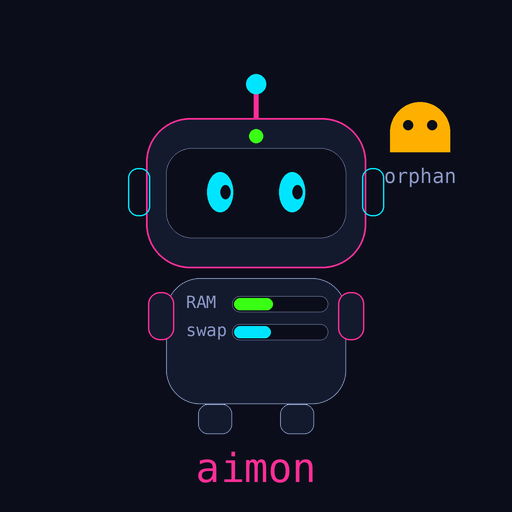
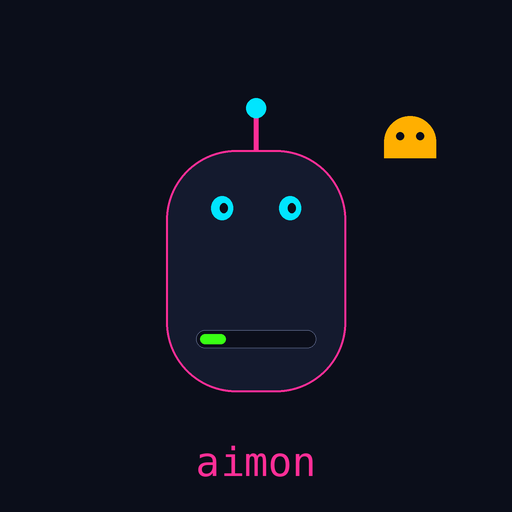
feat: simplify mascot — one capsule, dot eyes, one gauge
Claude-Code-style minimalism: drop ears/arms/legs/labels, keep the story
(gauge climbs, guard zaps the orphan, pressure drops). 451KB GIF.

Changed region(s): [[0.25, 0.125, 0.9062, 0.75], [0.375, 0.8438, 0.625, 0.9688], [0.375, 0.75, 0.625, 0.8438]]

diff --git a/assets/gen_mascot.py b/assets/gen_mascot.py
@@ -1,7 +1,8 @@
 #!/usr/bin/env python3
-"""aimon mascot: a neon guard robot that watches its RAM gauge rise and zaps the orphan
-process ghost before pressure goes critical. Vector primitives only, supersampled 4x,
-exported as an animated GIF (app-directory logo, <=2MB) plus a static PNG.
+"""aimon mascot: a minimal capsule guard whose belly gauge rises with memory pressure until
+it zaps the orphan-process ghost. Claude-Code-style simplicity: one shape, dot eyes, one
+accent detail. Vector primitives only, supersampled 3x, exported as an animated GIF
+(app-directory logo, <=2MB) plus a static PNG.
 
 Run: /tmp/aimon-venv/bin/python assets/gen_mascot.py
 """
@@ -24,11 +25,10 @@ MUTED = (0x8A, 0x98, 0xC4)
 
 SIZE = 512
 S = 3  # supersample
-T_LOOP = 3.0  # seconds
 FPS = 25
-FRAMES = int(T_LOOP * FPS)
+FRAMES = 75  # 3s loop
 
-GHOST = (420, 128)  # center of the orphan ghost
+GHOST = (410, 138)  # center of the orphan ghost
 
 
 def lerp(a: float, b: float, t: float) -> float:
@@ -42,10 +42,10 @@ def ease(t: float) -> float:
 def gauge_frac(t: float) -> float:
     """Pressure rises while the orphan runs, collapses when the zap lands."""
     if t < 0.68:
-        return lerp(0.35, 0.92, ease(t / 0.68))
+        return lerp(0.12, 1.0, ease(t / 0.68))
     if t < 0.85:
-        return lerp(0.92, 0.35, ease((t - 0.68) / 0.17))
-    return 0.35
+        return lerp(1.0, 0.12, ease((t - 0.68) / 0.17))
+    return 0.12
 
 
 def gauge_color(f: float) -> tuple[int, int, int]:
@@ -66,159 +66,108 @@ def ghost_alpha(t: float) -> float:
     return (t - 0.92) / 0.08
 
 
-def rr(d: ImageDraw.ImageDraw, box: tuple[float, float, float, float], r: float, **kw) -> None:
-    d.rounded_rectangle([c * S for c in box], radius=r * S, **kw)
-
-
 def draw_frame(t: float) -> Image.Image:
     img = Image.new("RGBA", (SIZE * S, SIZE * S), GROUND + (255,))
     d = ImageDraw.Draw(img, "RGBA")
-    rr(d, (0, 0, SIZE, SIZE), 96, fill=GROUND)
+
+    def rr(box, r, **kw):
+        d.rounded_rectangle([c * S for c in box], radius=r * S, **kw)
 
     frac = gauge_frac(t)
     zapping = 0.68 <= t < 0.80
 
-    # --- ghost (behind the arm) ---
-    ga = ghost_alpha(t)
     gx, gy = GHOST[0], GHOST[1] + 5 * math.sin(2 * math.pi * t)  # bob
-    if ga > 0:
-        g = int(235 * ga)
-        body = WARN + (g,)
-        r = 30
-        d.pieslice([(gx - r) * S, (gy - r) * S, (gx + r) * S, (gy + r) * S], 180, 360, fill=body)
-        d.rectangle([(gx - r) * S, gy * S, (gx + r) * S, (gy + 20) * S], fill=body)
-        zig = []
-        for i in range(5):
-            zig += [(gx - r + i * r / 2, gy + (20 if i % 2 == 0 else 11))]
-        zig += [(gx + r, gy + 20), (gx - r, gy + 20)]
-        d.polygon([(x * S, y * S) for x, y in zig], fill=body)
-        if zapping:  # X eyes
-            for ex in (gx - 12, gx + 12):
-                for (x1, y1, x2, y2) in (
-                    (ex - 5, gy - 11, ex + 5, gy - 1),
-                    (ex + 5, gy - 11, ex - 5, gy - 1),
-                ):
-                    d.line([x1 * S, y1 * S, x2 * S, y2 * S], fill=BAD + (g,), width=3 * S)
-        else:
-            for ex in (gx - 12, gx + 12):
-                d.ellipse(
-                    [(ex - 5) * S, (gy - 12) * S, (ex + 5) * S, (gy - 2) * S],
-                    fill=GROUND + (g,),
-                )
-        d.text(
-            ((gx) * S, (gy + 44) * S),
-            "orphan",
-            font=font(20),
-            anchor="mm",
-            fill=MUTED + (int(200 * ga),),
-        )
+    ga = ghost_alpha(t)
 
-    # --- antenna ---
-    tip_y = 84
-    d.line([256 * S, 122 * S, 256 * S, tip_y * S], fill=BRAND, width=5 * S)
-    glow = 22 if zapping else 0
-    if glow:
-        d.ellipse(
-            [(256 - glow) * S, (tip_y - glow) * S, (256 + glow) * S, (tip_y + glow) * S],
-            fill=BRAND + (90,),
-        )
-    d.ellipse(
-        [(256 - 10) * S, (tip_y - 10) * S, (256 + 10) * S, (tip_y + 10) * S],
-        fill=ACCENT if not zapping else BRAND,
-    )
-
-    # --- bolt: antenna tip -> ghost, arcing over the head ---
+    # --- bolt: antenna tip -> ghost ---
     if zapping:
         p = (t - 0.68) / 0.12
-        pts = [(256, tip_y)]
-        for i, (mx, my) in enumerate([(304, 96), (352, 88), (392, 98)]):
-            jitter = 9 * math.sin(i * 9 + p * 12)
-            pts.append((mx + jitter, my + jitter * 0.4))
-        pts.append((gx, gy + 14))
+        pts = [(256, 108), (310, 122), (362, 114), (gx, gy + 12)]
         d.line(
             [(x * S, y * S) for x, y in pts],
             fill=BRAND + (int(255 * min(1, 1.3 - p)),),
             width=7 * S,
             joint="curve",
         )
-        d.line(
-            [(x * S, y * S) for x, y in pts],
-            fill=(255, 255, 255, int(200 * min(1, 1.3 - p))),
-            width=2 * S,
-            joint="curve",
-        )
 
-    # --- head ---
-    rr(d, (146, 118, 366, 268), 44, fill=PANEL, outline=BRAND, width=5)
-    rr(d, (128, 168, 150, 216), 10, outline=ACCENT, width=4)  # ears
-    rr(d, (362, 168, 384, 216), 10, outline=ACCENT, width=4)
-    rr(d, (166, 148, 346, 238), 26, fill=GROUND, outline=MUTED + (120,), width=2)  # visor
-
-    # --- eyes ---
-    look = 12 * math.sin(2 * math.pi * t * 0.5)
-    if 0.60 <= t < 0.75:
-        look = 14  # watch the ghost
-    blink = 1.0
-    if 0.44 <= t < 0.50:
-        blink = abs(math.cos(math.pi * (t - 0.44) / 0.06))
-    for ex in (256 - 36, 256 + 36):
-        ry = 20 * blink
-        d.ellipse(
-            [(ex - 13) * S, (192 - ry) * S, (ex + 13) * S, (192 + ry) * S],
-            fill=ACCENT,
-        )
-        d.ellipse(
-            [(ex - 5 + look) * S, (192 - 7 * blink) * S, (ex + 5 + look) * S, (192 + 7 * blink) * S],
-            fill=GROUND,
-        )
-
-    # --- body + gauge panel ---
-    rr(d, (166, 278, 346, 404), 34, fill=PANEL, outline=MUTED + (120,), width=3)
-    rr(d, (148, 292, 174, 340), 12, fill=PANEL, outline=BRAND, width=4)  # arms
-    rr(d, (338, 292, 364, 340), 12, fill=PANEL, outline=BRAND, width=4)
-    rr(d, (198, 404, 232, 434), 10, fill=PANEL, outline=MUTED + (120,), width=3)
-    rr(d, (280, 404, 314, 434), 10, fill=PANEL, outline=MUTED + (120,), width=3)
-
-    d.text((186 * S, 302 * S), "RAM", font=font(17), anchor="lm", fill=MUTED)
-    tx0, tx1, ty0, ty1 = 232, 328, 296, 312
-    rr(d, (tx0, ty0, tx1, ty1), 8, fill=GROUND, outline=MUTED + (120,), width=2)
-    if frac > 0.02:
-        rr(
-            d,
-            (tx0 + 2, ty0 + 2, lerp(tx0 + 2, tx1 - 2, frac), ty1 - 2),
-            6,
-            fill=gauge_color(frac),
-        )
-    d.text((186 * S, 330 * S), "swap", font=font(17), anchor="lm", fill=MUTED)
-    rr(d, (232, 324, 328, 340), 8, fill=GROUND, outline=MUTED + (120,), width=2)
-    rr(d, (234, 326, lerp(234, 326, 0.4), 338), 6, fill=ACCENT + (170,))
-
-    # status brow: a forehead dot that reads the pressure
-    led = gauge_color(frac)
-    d.ellipse([(256 - 7) * S, 129 * S, (256 + 7) * S, 143 * S], fill=led)
+    # --- ghost ---
+    if ga > 0:
+        g = int(235 * ga)
+        body = WARN + (g,)
+        r = 26
+        d.pieslice([(gx - r) * S, (gy - r) * S, (gx + r) * S, (gy + r) * S], 180, 360, fill=body)
+        d.rectangle([(gx - r) * S, gy * S, (gx + r) * S, (gy + 16) * S], fill=body)
+        zig = [(gx - r + i * r / 2, gy + (16 if i % 2 == 0 else 8)) for i in range(5)]
+        zig += [(gx + r, gy + 16), (gx - r, gy + 16)]
+        d.polygon([(x * S, y * S) for x, y in zig], fill=body)
+        if zapping:  # X eyes
+            for ex in (gx - 10, gx + 10):
+                d.line(
+                    [(ex - 4) * S, (gy - 9) * S, (ex + 4) * S, (gy - 1) * S],
+                    fill=BAD + (g,),
+                    width=3 * S,
+                )
+                d.line(
+                    [(ex + 4) * S, (gy - 9) * S, (ex - 4) * S, (gy - 1) * S],
+                    fill=BAD + (g,),
+                    width=3 * S,
+                )
+        else:
+            for ex in (gx - 10, gx + 10):
+                d.ellipse(
+                    [(ex - 4) * S, (gy - 10) * S, (ex + 4) * S, (gy - 2) * S],
+                    fill=GROUND + (g,),
+                )
 
     # --- poof ring ---
     if 0.76 <= t < 0.92:
         p = (t - 0.76) / 0.16
-        r = lerp(28, 72, p)
+        r = lerp(24, 62, p)
         d.ellipse(
             [(gx - r) * S, (gy - r) * S, (gx + r) * S, (gy + r) * S],
             outline=MUTED + (int(220 * (1 - p)),),
-            width=max(1, int(5 * (1 - p))) * S,
+            width=max(1, int(4 * (1 - p))) * S,
         )
 
-    # --- poof X (the orphan is gone) ---
-    if 0.80 <= t < 0.92:
-        a = int(255 * (1 - (t - 0.80) / 0.12))
-        for (x1, y1, x2, y2) in ((-16, -16, 16, 16), (16, -16, -16, 16)):
-            d.line(
-                [(gx + x1) * S, (gy + y1) * S, (gx + x2) * S, (gy + y2) * S],
-                fill=BAD + (a,),
-                width=5 * S,
-            )
+    # --- antenna ---
+    d.line([256 * S, 152 * S, 256 * S, 108 * S], fill=BRAND, width=5 * S)
+    d.ellipse(
+        [(256 - 10) * S, 98 * S, (256 + 10) * S, 118 * S],
+        fill=BRAND if zapping else ACCENT,
+    )
+
+    # --- body: one capsule ---
+    rr((166, 150, 346, 392), 70, fill=PANEL, outline=BRAND, width=6)
+
+    # --- eyes: two dots, a blink, a glance ---
+    look = 4 * math.sin(2 * math.pi * t * 0.5)
+    if 0.60 <= t < 0.75:
+        look = 6  # watch the ghost
+    blink = 1.0
+    if 0.44 <= t < 0.50:
+        blink = abs(math.cos(math.pi * (t - 0.44) / 0.06))
+    for ex in (222, 290):
+        ry = 12 * blink
+        d.ellipse(
+            [(ex - 11) * S, (208 - ry) * S, (ex + 11) * S, (208 + ry) * S],
+            fill=ACCENT,
+        )
+        d.ellipse(
+            [(ex - 4 + look) * S, (208 - 5 * blink) * S, (ex + 4 + look) * S, (208 + 5 * blink) * S],
+            fill=GROUND,
+        )
+
+    # --- belly gauge ---
+    rr((196, 330, 316, 348), 9, fill=GROUND, outline=MUTED + (110,), width=2)
+    if frac > 0.04:
+        rr(
+            (200, 334, lerp(200, 312, frac), 344),
+            5,
+            fill=gauge_color(frac),
+        )
 
     # --- wordmark ---
-    d.text((256 * S, 468 * S), "aimon", font=font(40), anchor="mm", fill=BRAND)
+    d.text((256 * S, 462 * S), "aimon", font=font(40), anchor="mm", fill=BRAND)
 
     return img.resize((SIZE, SIZE), Image.LANCZOS)
 
